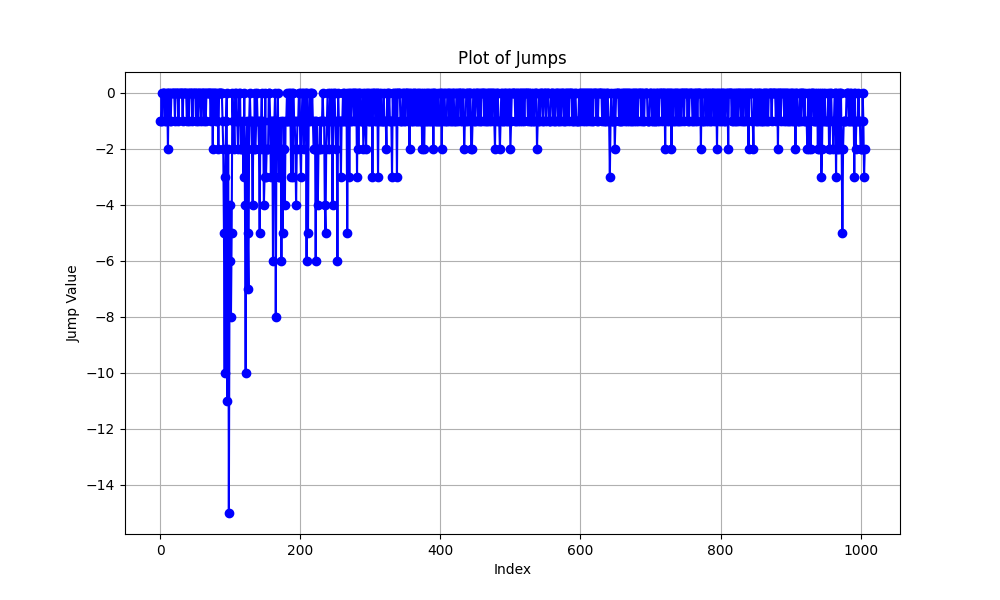
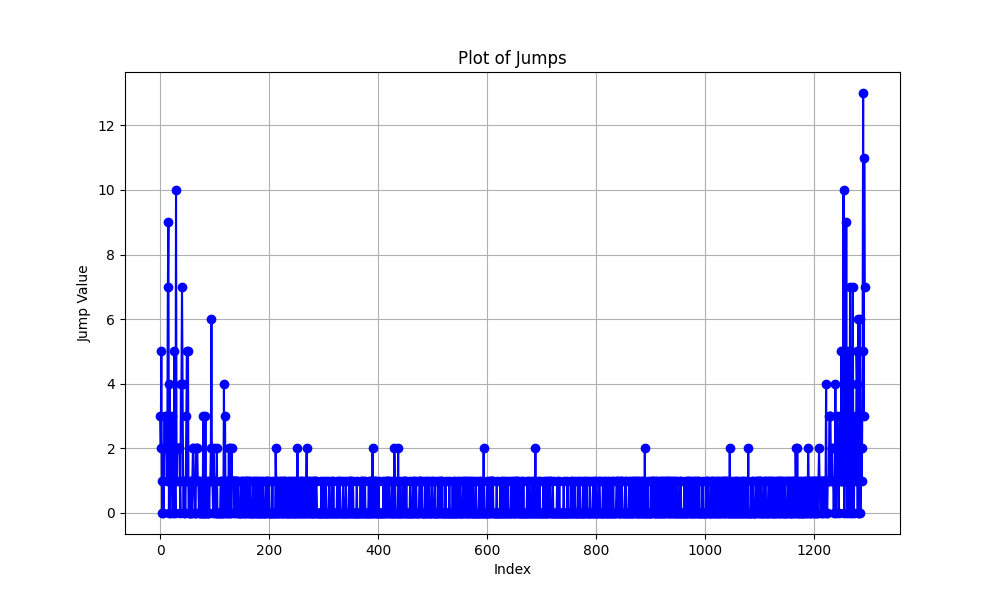
add: get last occurence of argmax instead of first occurence,remove first 10 % and last 10% in jumps

diff --git a/LOST/visualizations.py b/LOST/visualizations.py
@@ -18,10 +18,10 @@ import skimage.io
 import numpy as np
 import torch.nn as nn
 from PIL import Image
-
+import os
 import matplotlib.pyplot as plt
 
-def visualize_predictions(image, pred, seed, scales, dims, vis_folder, im_name, plot_seed=False, potentials=None):
+def visualize_predictions(image, pred, seed, scales, dims, vis_folder, im_name, plot_seed=False, potentials=None, jumps=None):
     """
     Visualization of the predicted box and the corresponding seed patch.
     """
@@ -88,20 +88,33 @@ def visualize_predictions(image, pred, seed, scales, dims, vis_folder, im_name, 
                 (0, 128, 128), 1, # Teal
             )
         
-        # for seed in similars:
-        #     s = np.unravel_index(seed.cpu().numpy(), (w_featmap, h_featmap))
-        #     size = np.asarray(scales) / 2
-        #     cv2.rectangle(
-        #         image,
-        #         (int(s[1] * scales[1] - (size[1] / 2)), int(s[0] * scales[0] - (size[0] / 2)),
-        #         ),
-        #         (int(s[1] * scales[1] + (size[1] / 2)), int(s[0] * scales[0] + (size[0] / 2)),
-        #         ),
-        #         (0, 128, 128), 1, # Teal
-        #     )
+        # visualize paths at id= k_jump
+        patch_k_jump = potentials[-1] if len(potentials) > 0 else 0
+        s = np.unravel_index(patch_k_jump, (w_featmap, h_featmap))
+        size = np.asarray(scales) / 2
+        cv2.rectangle(
+            image,
+            (int(s[1] * scales[1] - (size[1] / 2)), int(s[0] * scales[0] - (size[0] / 2)),
+            ),
+            (int(s[1] * scales[1] + (size[1] / 2)), int(s[0] * scales[0] + (size[0] / 2)),
+            ),
+            (0, 0, 255), -1, # Blue
+        )
+
         pltname = f"{vis_folder}/LOST_{im_name}_potentials.png"
         Image.fromarray(image).save(pltname)
         print(f"Predictions saved at {pltname}.")
+
+        os.makedirs(f"{vis_folder}/jumps", exist_ok=True)
+        # save jumps plot
+        plt.figure(figsize=(10, 6))
+        plt.plot(jumps, marker='o', linestyle='-', color='b')
+        plt.title('Plot of Jumps')
+        plt.xlabel('Index')
+        plt.ylabel('Jump Value')
+        plt.grid(True)
+        # plt.savefig(f"{vis_folder}/jumps/jumps_{im_name}.png")
+        
 
 def visualize_fms(A, seed, scores, dims, scales, output_folder, im_name):
     """

diff --git a/LOST/object_discovery.py b/LOST/object_discovery.py
@@ -36,7 +36,7 @@ def lost(feats, dims, scales, init_image_size, k_patches=100, dynamic_thres=Fals
         seed: selected patch corresponding to an object
     """
     A = (feats @ feats.transpose(1, 2)).squeeze()
-    sorted_patches, scores = patch_scoring(A, dynamic_thres, k_patches=k_patches)
+    sorted_patches, scores, jumps = patch_scoring(A, dynamic_thres, k_patches=k_patches)
     seed = sorted_patches[-1] if len(sorted_patches) > 0 else 0
 
     if k_patches == -1:
@@ -52,7 +52,7 @@ def lost(feats, dims, scales, init_image_size, k_patches=100, dynamic_thres=Fals
     pred, _ = detect_box(dims, scales=scales, object_patches=not_potentials_filtered_index,
                          initial_im_size=init_image_size[1:])
 
-    return np.asarray(pred), A, scores, seed, not_potentials_filtered_index
+    return np.asarray(pred), A, scores, seed, not_potentials_filtered_index, jumps
 
 
 def dbscan_filter(patches_xy):
@@ -86,17 +86,33 @@ def patch_scoring(M, dynamic_threshold, k_patches):
 
     # Dynamic Patch Selection (if `k_patches == -1`)
     if k_patches == -1:
-        jumps = [int(float((cent[i] - cent[i - 1]).cpu().numpy())) for i in range(1, len(cent))]
+        jumps = [abs(int(float((cent[i] - cent[i - 1]).cpu().numpy()))) for i in range(1, len(cent))]
         plot_jumps(jumps)
 
-        if len(jumps) > 10:
-            k_jump = 10 + np.argmin(jumps[10:])
-        else:
-            k_jump = np.argmin(jumps)
-        return sel[:k_jump], cent
+        # replace first 10% of the jumps with 0
+        num_10_percent = int(len(jumps) * 0.1)
+        jumps[:num_10_percent] = [0]*num_10_percent
 
-    return sel, cent
+        # replace last 10% of the jumps with 0
+        jumps[-num_10_percent:] = [0]*num_10_percent
+        
+        k_jump = get_last_argmax(jumps)       
 
+        # if len(jumps) > 10:
+        #     k_jump = 10 + np.argmin(jumps[10:-10])
+        # else:
+        #     k_jump = np.argmin(jumps)
+        return sel[:k_jump], cent, jumps
+
+    return sel, cent, jumps
+
+def get_last_argmax(lst):
+    '''
+        [1, 4, 4, 4, 3, 4] --> return 5
+        default argmax would return 1
+    '''
+    lst2 = lst[::-1]
+    return len(lst) - lst2.index(max(lst)) -1
 
 def plot_jumps(jumps,save_path='jumps.png'):
     plt.figure(figsize=(10, 6))

diff --git a/LOST/main_lost.py b/LOST/main_lost.py
@@ -297,7 +297,7 @@ if __name__ == "__main__":
 
         # ------------ Apply LOST -------------------------------------------
         if not args.dinoseg:
-            pred, A, scores, seed, potentials = lost(
+            pred, A, scores, seed, potentials, jumps = lost(
                 feats,
                 [w_featmap, h_featmap],
                 scales,
@@ -326,7 +326,7 @@ if __name__ == "__main__":
 
             elif args.visualize == "pred":
                 image = dataset.load_image(im_name)
-                visualize_predictions(image, pred, seed, scales, [w_featmap, h_featmap], vis_folder, im_name, plot_seed=True, potentials=potentials)
+                visualize_predictions(image, pred, seed, scales, [w_featmap, h_featmap], vis_folder, im_name, plot_seed=True, potentials=potentials, jumps = jumps)
 
         # Save the prediction
         preds_dict[im_name] = pred
